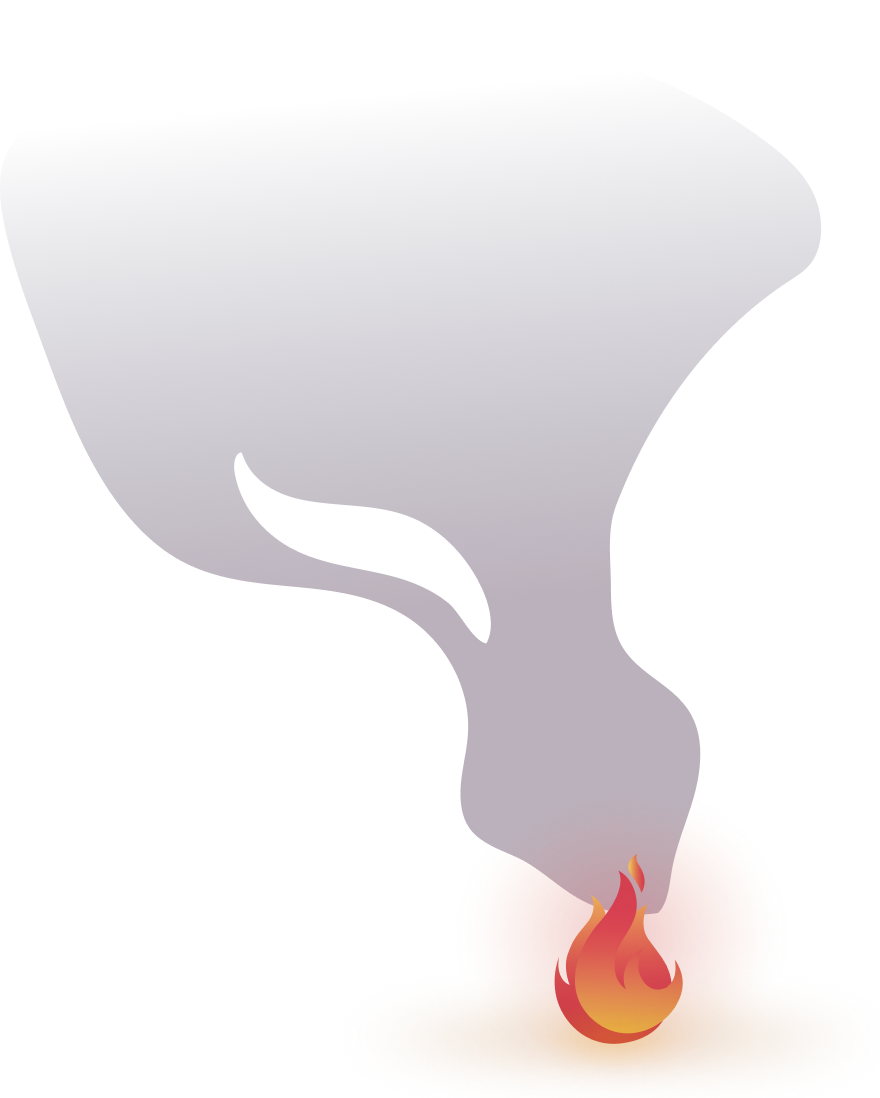
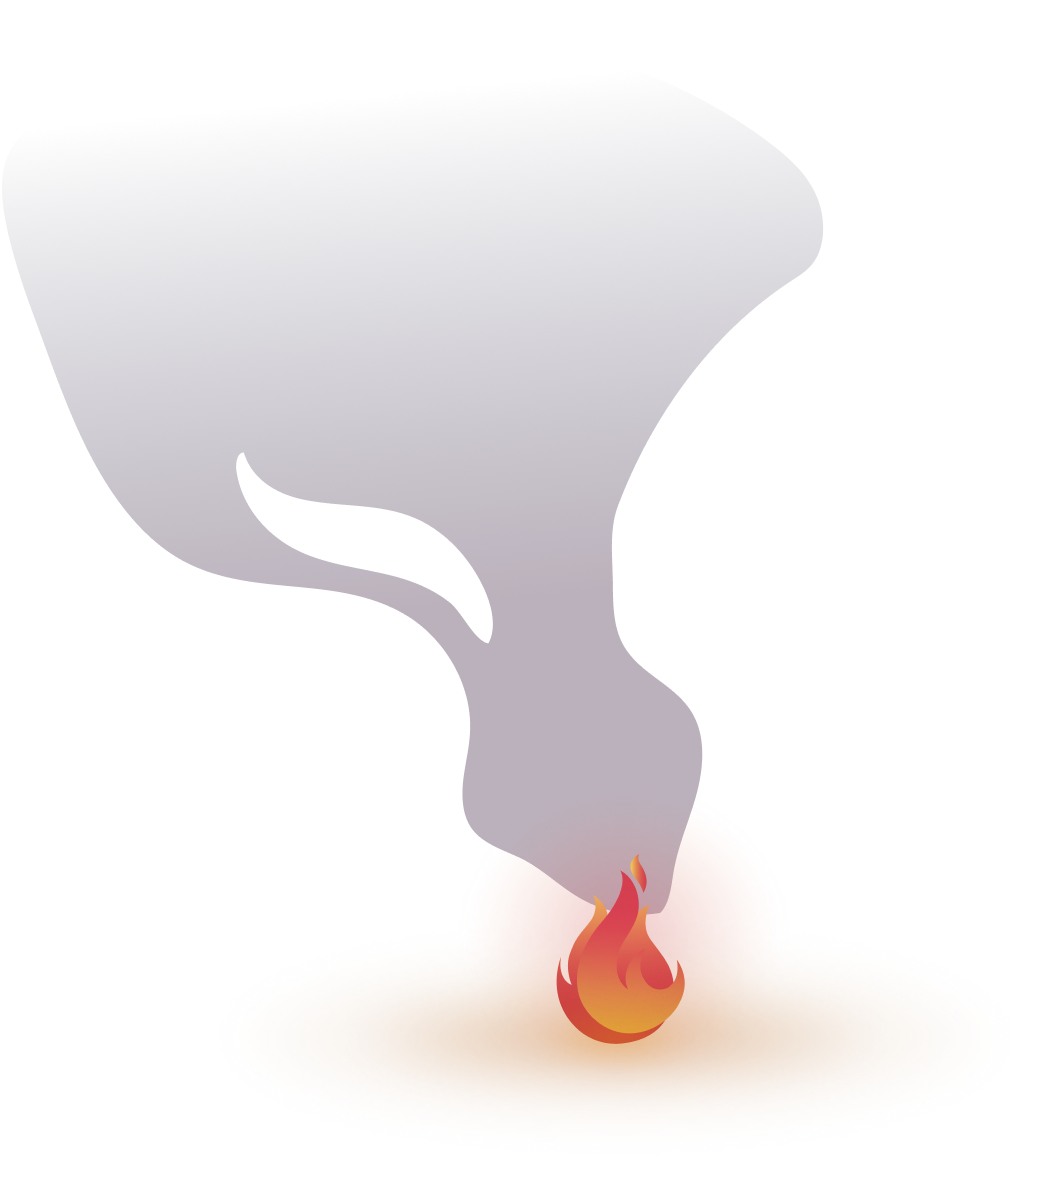
Edited welcome page image

Changed region(s): [[0.1534, 0.1548, 0.9511, 0.9909], [0.1227, 0.4335, 0.1534, 0.4645], [0.092, 0.4026, 0.1227, 0.4335]]

diff --git a/src/app/components/layouts/BoardingPageLayout.tsx b/src/app/components/layouts/BoardingPageLayout.tsx
@@ -89,13 +89,16 @@ const BoardingPageLayout: FC<BoardingPageLayoutProps> = ({
         <img
           src={WelcomeTreeLeftImage}
           alt="Vigvam"
-          className={classNames("absolute bottom-0 left-0", "h-[83.5%] w-auto")}
+          className={classNames(
+            "absolute bottom-0 left-[5%]",
+            "h-[82%] w-auto"
+          )}
         />
         <img
           src={WelcomeTreeRightImage}
           alt="Vigvam"
           className={classNames(
-            "absolute bottom-0 right-0",
+            "absolute bottom-0 right-[2%] z-[2]",
             "h-[82.6%] w-auto"
           )}
         />
@@ -104,15 +107,15 @@ const BoardingPageLayout: FC<BoardingPageLayoutProps> = ({
           alt="Vigvam"
           className={classNames(
             "absolute bottom-[7.5%] right-[22.7%]",
-            "h-[42.1%] w-auto"
+            "h-[42.22%] w-auto"
           )}
         />
         <img
           src={WelcomeFireImage}
           alt="Vigvam"
           className={classNames(
-            "absolute bottom-[8.5%] right-[42%]",
-            "h-[50.8%] w-auto"
+            "absolute bottom-[4.5%] right-[36%]",
+            "h-[54.5%] w-auto"
           )}
         />
       </>
